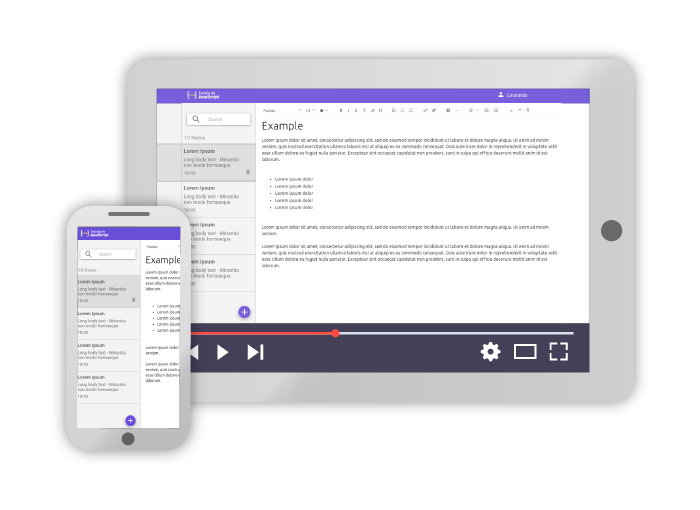
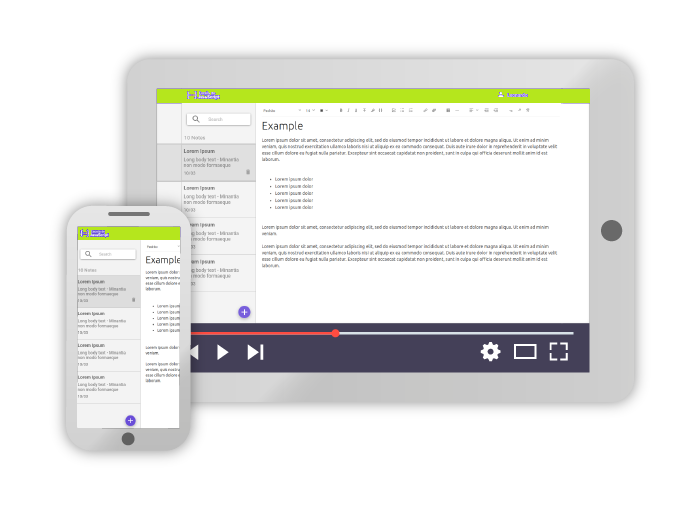
Screen Login

Changed region(s): [[0.21, 0.1765, 0.84, 0.2059], [0.09, 0.4412, 0.27, 0.4706]]

diff --git a/frontend/src/components/RegisterForm/index.js b/frontend/src/components/RegisterForm/index.js
@@ -1,89 +1,88 @@
+import React, { Fragment, useState } from 'react';
+import { Button, Field, Control, Label, Input, Column, Section, Help } from "rbx";
+import { Redirect } from "react-router-dom";
+import userService from "../../services/users"
 
-    import React, { Fragment, useState } from 'react';
-    import { Button, Field, Control, Label, Input, Column, Section, Help } from "rbx";
-    import { Redirect } from "react-router-dom";
-    import userService from "../../services/users"
+function RegisterForm() {
+  const [name, setName] = useState("");
+  const [email, setEmail] = useState("");
+  const [password, setPassword] = useState("");
+  const [redirectToLogin, setRedirectToLogin] = useState(false);
+  const [error, setError] = useState(false);
 
-    function RegisterForm() {
-      const [name, setName] = useState("");
-      const [email, setEmail] = useState("");
-      const [password, setPassword] = useState("");
-      const [redirectToLogin, setRedirectToLogin] = useState(false);
-      const [error, setError] = useState(false);
-
-      const handleSubmit = async (evt) => {
-        evt.preventDefault()
-        try {
-          const user = await userService.register({name: name, email: email, password: password})
-          setRedirectToLogin(true)
-        } catch (error) {
-          setError(true)
-        }
-      }
-
-      if(redirectToLogin == true)
-        return <Redirect to={{pathname: "/login"}}/>
-
-      return (
-
-        <Fragment>
-            <Column.Group centered>
-              <form onSubmit={handleSubmit}>
-                <Column size={12}>
-                  <Field>
-                    <Label size="small">Nome </Label>
-                    <Control>
-                      <Input 
-                        type="name" 
-                        value={name}
-                        onChange={e => setName(e.target.value)}
-                        required
-                        name="name"
-                      />
-                    </Control>
-                  </Field>
-                  <Field>
-                    <Label size="small">Email </Label>
-                    <Control>
-                      <Input 
-                        type="email" 
-                        value={email}
-                        onChange={e => setEmail(e.target.value)}
-                        required
-                        name="email"
-                      />
-                    </Control>
-                  </Field>
-                  <Field>
-                    <Label size="small">Password </Label>
-                    <Control>
-                      <Input 
-                        type="password" 
-                        value={password}
-                        onChange={e => setPassword(e.target.value)}
-                        required
-                        name="password"
-                      />
-                    </Control>
-                  </Field>
-                  <Field>
-                    <Control>
-                      <Column.Group>
-                        <Column>
-                          <a onClick={e => setRedirectToLogin(true)} className="button is-white has-text-custom-purple">Login or</a>
-                        </Column>
-                        <Column>
-                          <Button color="custom-purple" outlined>Register</Button>
-                        </Column>
-                      </Column.Group>
-                    </Control>
-                  </Field>
-                  { error && <Help color="danger">Email or Password invalid</Help> }
-                </Column>
-              </form>
-            </Column.Group>
-        </Fragment>
-      )
+  const handleSubmit = async (evt) => {
+    evt.preventDefault()
+    try {
+      const user = await userService.register({name: name, email: email, password: password})
+      setRedirectToLogin(true)
+    } catch (error) {
+      setError(true)
     }
+  }
 
-    export default RegisterForm;
+  if(redirectToLogin == true)
+    return <Redirect to={{pathname: "/login"}}/>
+
+  return (
+
+    <Fragment>
+        <Column.Group centered>
+          <form onSubmit={handleSubmit}>
+            <Column size={12}>
+              <Field>
+                <Label size="small">Nome </Label>
+                <Control>
+                  <Input 
+                    type="name" 
+                    value={name}
+                    onChange={e => setName(e.target.value)}
+                    required
+                    name="name"
+                  />
+                </Control>
+              </Field>
+              <Field>
+                <Label size="small">Email </Label>
+                <Control>
+                  <Input 
+                    type="email" 
+                    value={email}
+                    onChange={e => setEmail(e.target.value)}
+                    required
+                    name="email"
+                  />
+                </Control>
+              </Field>
+              <Field>
+                <Label size="small">Password </Label>
+                <Control>
+                  <Input 
+                    type="password" 
+                    value={password}
+                    onChange={e => setPassword(e.target.value)}
+                    required
+                    name="password"
+                  />
+                </Control>
+              </Field>
+              <Field>
+                <Control>
+                  <Column.Group>
+                    <Column>
+                      <a onClick={e => setRedirectToLogin(true)} className="button is-white has-text-custom-purple">Login or</a>
+                    </Column>
+                    <Column>
+                      <Button color="custom-purple" outlined>Register</Button>
+                    </Column>
+                  </Column.Group>
+                </Control>
+              </Field>
+              { error && <Help color="danger">Email or Password invalid</Help> }
+            </Column>
+          </form>
+        </Column.Group>
+    </Fragment>
+  )
+}
+
+export default RegisterForm;

diff --git a/frontend/src/screens/auth/login/index.js b/frontend/src/screens/auth/login/index.js
@@ -1,12 +1,42 @@
+import { Card, Column, Section, Title, Container } from 'rbx'
 import React, { Fragment } from 'react'
 import Header from '../../../components/Header'
+import "../../../styles/auth.scss"
+import LogoImage from '../../../assets/images/logo.png'
+
 
 
 const Login = () => (
     <Fragment>
-                <Header />
+        <Header />
+        <Section size="medium" className="auth">
+            <Container>
+                <Column.Group centered>
+                    <Column size={3}>
+                        <Card>
+                            <Card.Content>
 
-        Hello Login
+                                <Section>
+                                    <Column.Group centered>
+                                        <Column size={12}>
+                                            <img src={LogoImage} />
+                                        </Column>
+                                        <Column.Group>
+                                            <Column size={12}>
+                                                <Title size={6} className="has-text-grey has-text-centered">
+                                                    Your notes on the cloud
+                                                </Title>
+                                            </Column>
+                                        </Column.Group>
+                                    </Column.Group>
+                                </Section>
+
+                            </Card.Content>
+                        </Card>
+                    </Column>
+                </Column.Group>
+            </Container>
+        </Section>
     </Fragment>
 )
 

diff --git a/frontend/src/styles/_custom_colors.scss b/frontend/src/styles/_custom_colors.scss
@@ -1,2 +1,2 @@
-$custom-purple: #694ed8 !default;
-$custom-purple-darker: #6600cc !default;
+$custom-purple: #4ed859 !default;
+$custom-purple-darker: #00cc1b !default;
